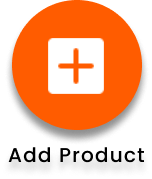
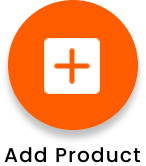
17-12-2021 Update

diff --git a/lib/pages/profile_customer_page.dart b/lib/pages/profile_customer_page.dart
@@ -1,0 +1,76 @@
+import 'dart:io';
+
+import 'package:animise_application/theme.dart';
+import 'package:flutter/material.dart';
+import 'package:flutter/services.dart';
+import 'package:image_picker/image_picker.dart';
+
+class ProfileCustomerPage extends StatefulWidget {
+  @override
+  _ProfileCustomerPageState createState() => _ProfileCustomerPageState();
+}
+
+class _ProfileCustomerPageState extends State<ProfileCustomerPage> {
+  File? image;
+
+  Future pickImage(ImageSource source) async {
+    try {
+      await ImagePicker().pickImage(source: source);
+      if (image == null) return;
+
+      final imageTemporary = File(image!.path);
+      setState(() => this.image = imageTemporary);
+    } on PlatformException catch (e) {
+      print("Failed to pick image: $e");
+    }
+  }
+
+  @override
+  Widget build(BuildContext context) {
+    return Scaffold(
+      appBar: AppBar(
+        title: Text("My Profile"),
+        backgroundColor: primaryOrangeColor,
+        automaticallyImplyLeading: false,
+        actions: [
+          Stack(
+            children: [
+              IconButton(onPressed: () {}, icon: Icon(Icons.exit_to_app))
+            ],
+          ),
+        ],
+      ),
+      body: Container(
+        padding: EdgeInsets.fromLTRB(40, 40, 20, 20),
+        child: Column(
+          children: [
+            Row(children: [
+              ClipOval(
+                child: image != null
+                    ? Image.file(
+                        image!,
+                        width: 100,
+                        height: 100,
+                        fit: BoxFit.cover,
+                      )
+                    : Image.asset(
+                        "assets/Profile_admin.png",
+                        width: 100,
+                      ),
+              ),
+              SizedBox(
+                width: 23,
+              ),
+              Text("Rindo Alexiel",
+                style: primaryTextStyle.copyWith(
+                  fontWeight: bold,
+                  fontSize: 14,
+                ),
+              )
+            ])
+          ],
+        ),
+      ),
+    );
+  }
+}

diff --git a/lib/pages/homescreen_customer_page.dart b/lib/pages/homescreen_customer_page.dart
@@ -1,12 +1,55 @@
+import 'package:animise_application/pages/chat_customer_page.dart';
+import 'package:animise_application/pages/home_customer_page.dart';
+import 'package:animise_application/pages/order_status_customer_page.dart';
+import 'package:animise_application/pages/profile_customer_page.dart';
 import 'package:animise_application/theme.dart';
 import 'package:flutter/material.dart';
 
-class HomescreenCustomerPage extends StatelessWidget {
+class MainCustomerPage extends StatefulWidget {
+
+  @override
+  _MainCustomerPageState createState() => _MainCustomerPageState();
+}
+
+class _MainCustomerPageState extends State<MainCustomerPage> {
+  int currentIndex = 0;
+  final screens = [
+    HomeCustomerPage(),
+    ChatCustomerPage(),
+    OrderStatusCustomerPage(),
+    ProfileCustomerPage(),
+  ];
 
   @override
   Widget build(BuildContext context) {
-    return Container(
+    return Scaffold(
+      body: screens[currentIndex],
       
+      bottomNavigationBar: BottomNavigationBar(
+        type: BottomNavigationBarType.fixed,
+        selectedItemColor: primaryOrangeColor,
+        unselectedItemColor: Colors.grey,
+        currentIndex: currentIndex,
+        onTap: (index) => setState(() => currentIndex = index),
+        items: [
+          BottomNavigationBarItem(icon: Icon(Icons.home),
+            label: "Home",
+            backgroundColor: primaryOrangeColor,
+          ),
+          BottomNavigationBarItem(icon: Icon(Icons.chat),
+            label: "Chat",
+            backgroundColor: primaryOrangeColor,
+          ),
+          BottomNavigationBarItem(icon: Icon(Icons.online_prediction_rounded),
+            label: "Order Status",
+            backgroundColor: primaryOrangeColor,
+          ),
+          BottomNavigationBarItem(icon: Icon(Icons.person),
+            label: "Profile",
+            backgroundColor: primaryOrangeColor,
+          ),
+        ],
+      ),
     );
   }
 }

diff --git a/lib/pages/homescreen_admin_page.dart b/lib/pages/homescreen_admin_page.dart
@@ -9,17 +9,24 @@ class HomescreenAdminPage extends StatelessWidget {
     // int counter = 0;
 
     return Scaffold(
+      resizeToAvoidBottomInset: false,
       appBar: AppBar(
         backgroundColor: primaryOrangeColor,
+        automaticallyImplyLeading: false,
         title:  Text("Home"),
         actions: [
           Stack(
             children: [
-              IconButton(icon: Icon(Icons.notifications),onPressed: (){
+              // IconButton(icon: Icon(Icons.notifications),onPressed: (){
+              //   setState((){
+              //     // counter = 0;
+              //   });
+              // }),
+              IconButton(onPressed: (){
                 setState((){
-                  // counter = 0;
+                  //Log out admin
                 });
-              }),
+              }, icon: Icon(Icons.exit_to_app))
             ],
           )
         ],
@@ -30,7 +37,12 @@ class HomescreenAdminPage extends StatelessWidget {
             Container(
               width: 412,
               height: 200,
-              color: primaryYellowColor,
+              decoration: BoxDecoration(
+                gradient: LinearGradient(colors: [
+                  Color(0xffFF8A00), primaryYellowColor
+                ])
+              ),
+              // color: primaryYellowColor,
               child: Column(
                 children: [
                   SizedBox(
@@ -68,7 +80,7 @@ class HomescreenAdminPage extends StatelessWidget {
                     Navigator.pushNamed(context, '/add-product');
                   },
                   child: Image.asset("assets/add_product.png",
-                    width: 80
+                    width: 84
                   ),
                 ),
                 InkWell(

diff --git a/lib/main.dart b/lib/main.dart
@@ -2,6 +2,7 @@
 
 import 'package:animise_application/pages/add_product_page.dart';
 import 'package:animise_application/pages/homescreen_admin_page.dart';
+import 'package:animise_application/pages/homescreen_customer_page.dart';
 import 'package:animise_application/pages/sign_in_page.dart';
 import 'package:animise_application/pages/sign_up_page.dart';
 import 'package:animise_application/pages/splash_page.dart';
@@ -24,6 +25,7 @@ class MyApp extends StatelessWidget {
         '/sign-up': (context) => SignUpPage(),
         '/homescreen-admin': (context) => HomescreenAdminPage(),
         '/add-product': (context) => AddProductPage(),
+        '/main-customer': (conter) => MainCustomerPage(),
       },
     );
   }

diff --git a/lib/pages/home_customer_page.dart b/lib/pages/home_customer_page.dart
@@ -1,0 +1,22 @@
+import 'package:animise_application/theme.dart';
+import 'package:flutter/material.dart';
+
+class HomeCustomerPage extends StatefulWidget {
+
+  @override
+  _HomeCustomerPageState createState() => _HomeCustomerPageState();
+}
+
+class _HomeCustomerPageState extends State<HomeCustomerPage> {
+  @override
+  Widget build(BuildContext context) {
+    return Scaffold(
+      backgroundColor: bodyBackgroundColor,
+      appBar: AppBar(
+        title: Text("Home"),
+        backgroundColor: primaryOrangeColor,
+        automaticallyImplyLeading: false,
+      ),
+    );
+  }
+}

diff --git a/lib/pages/chat_customer_page.dart b/lib/pages/chat_customer_page.dart
@@ -1,0 +1,17 @@
+import 'package:animise_application/theme.dart';
+import 'package:flutter/material.dart';
+
+class ChatCustomerPage extends StatelessWidget {
+  const ChatCustomerPage({ Key? key }) : super(key: key);
+
+  @override
+  Widget build(BuildContext context) {
+    return Scaffold(
+      appBar: AppBar(
+        title: Text("Chat"),
+        backgroundColor: primaryOrangeColor,
+        automaticallyImplyLeading: false,
+      ),
+    );
+  }
+}

diff --git a/lib/pages/order_status_customer_page.dart b/lib/pages/order_status_customer_page.dart
@@ -1,0 +1,16 @@
+import 'package:animise_application/theme.dart';
+import 'package:flutter/material.dart';
+
+class OrderStatusCustomerPage extends StatelessWidget {
+
+  @override
+  Widget build(BuildContext context) {
+    return Scaffold(
+      appBar: AppBar(
+        title: Text("Order Status"),
+        backgroundColor: primaryOrangeColor,
+        automaticallyImplyLeading: false,
+      ),
+    );
+  }
+}

diff --git a/lib/pages/sign_up_page.dart b/lib/pages/sign_up_page.dart
@@ -286,7 +286,7 @@ class SignUpPage extends StatelessWidget {
                       fontSize: 14, fontWeight: semibold)),
               GestureDetector(
                 onTap: (){
-                  Navigator.pushNamed(context, '/homescreen-admin');
+                  Navigator.pushNamed(context, '/main-customer');
                 },
                 child: Text(
                   " Home Admin",

diff --git a/lib/pages/add_product_page.dart b/lib/pages/add_product_page.dart
@@ -21,6 +21,7 @@ class _AddProductPageState extends State<AddProductPage> {
       appBar: AppBar(
         backgroundColor: primaryOrangeColor,
         title: Text("Add Product"),
+        automaticallyImplyLeading: false,
       ),
       resizeToAvoidBottomInset: false,
       body: SingleChildScrollView(

diff --git a/lib/theme.dart b/lib/theme.dart
@@ -7,6 +7,7 @@ Color textBlack = Color(0xff000000);
 Color textWhite = Color(0xffFFFFFF);
 Color textGray = Color(0xff5A5757);
 Color chatOrangeColor = Color(0xffFF965A);
+Color bodyBackgroundColor = Color(0xffEEEDED);
 
 TextStyle primaryTextStyle = GoogleFonts.poppins(
   color: textBlack,
